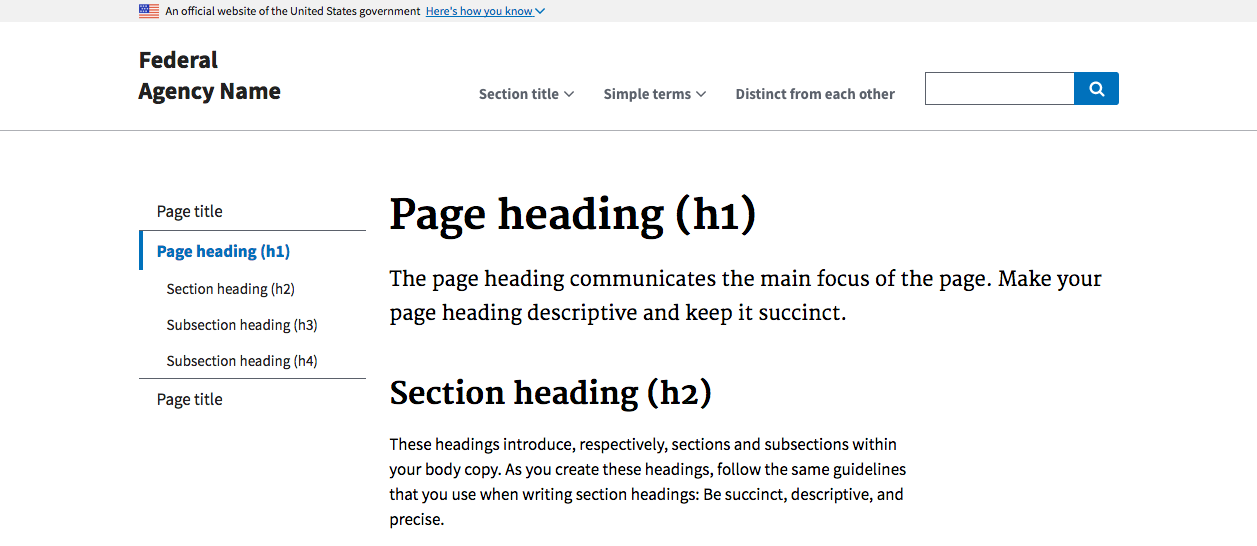
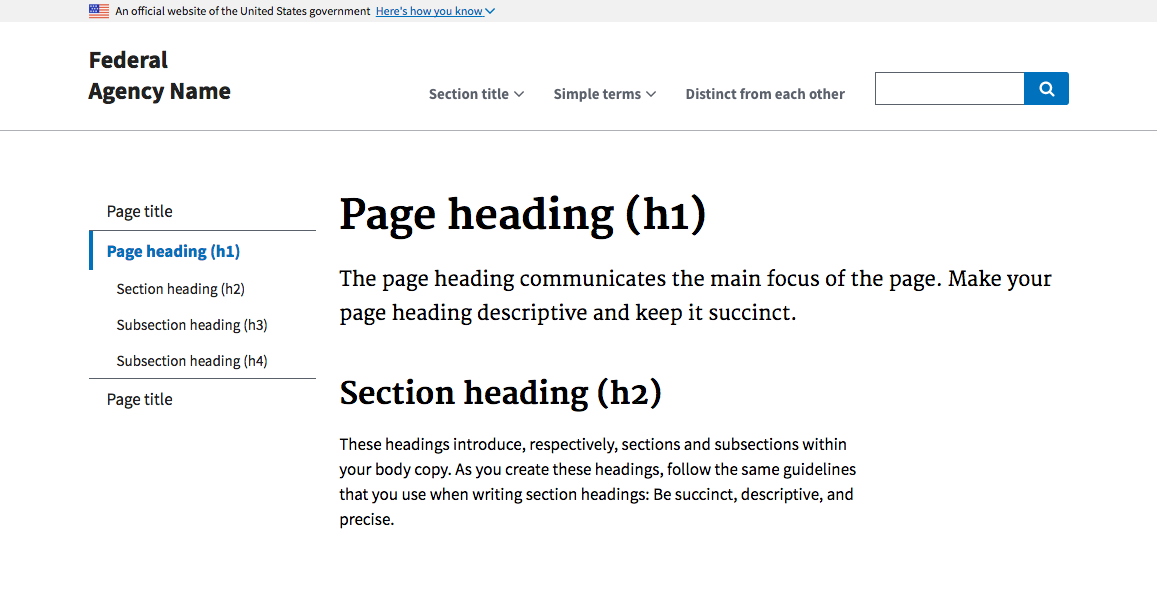
newer images and adding drop shadow

diff --git a/css/styleguide.scss b/css/styleguide.scss
@@ -1350,8 +1350,9 @@ $font-light: 300;
   text-align: center;
 }
 
-// Headers page -------------- //
-.page-headers {
+// Example images on headers and page templates pages -------------- //
+.page-headers,
+.page-page-templates {
   .preview {
     img {
       box-shadow: 0px 4px 10px rgba(0,0,0,0.3);
